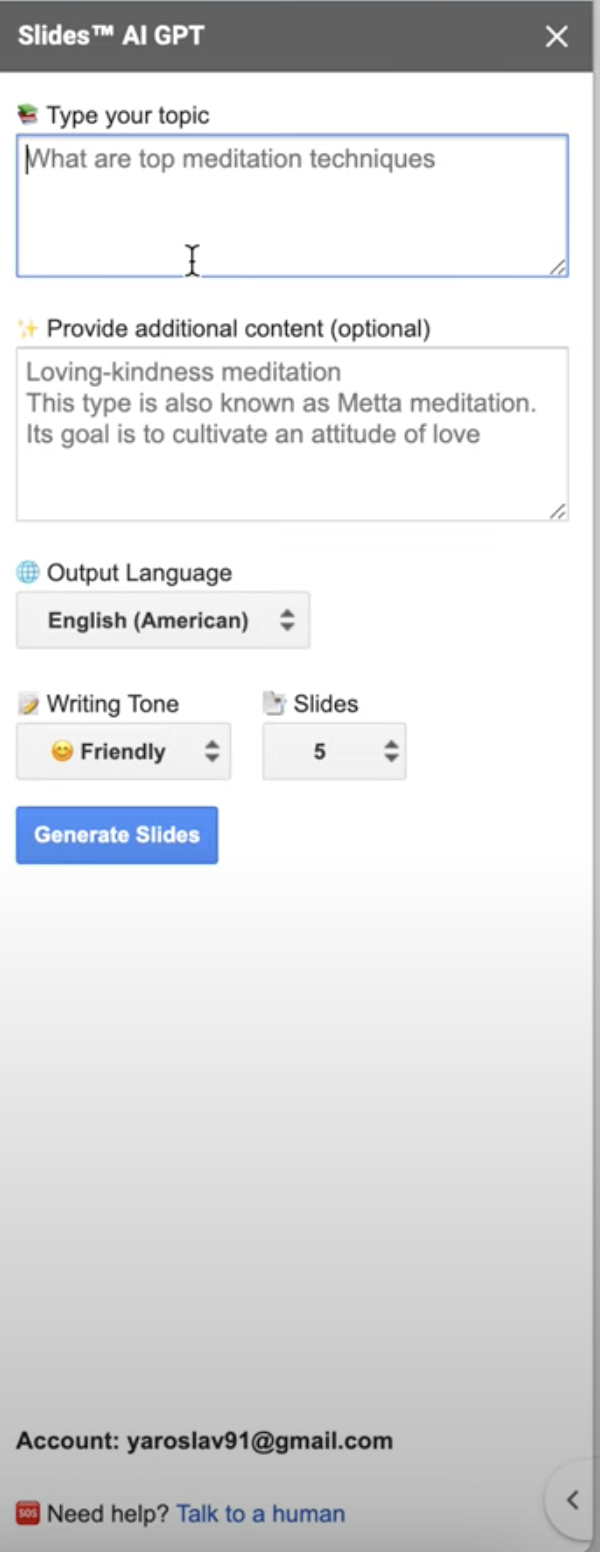
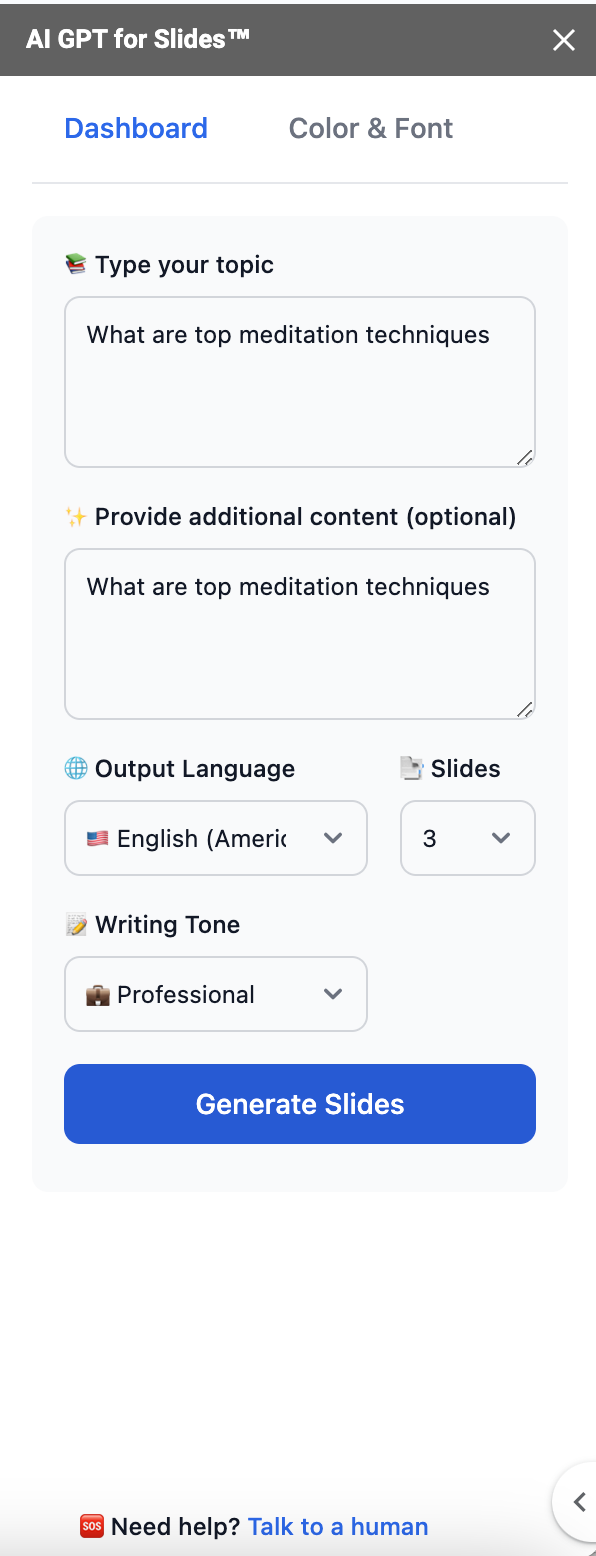
update policy

diff --git a/privacy_gpt_slides.md b/privacy_gpt_slides.md
@@ -1,5 +1,5 @@
 ---
-title: Slides™ AI GPT: Privacy Policy
+title: AI GPT for Slides™: Privacy Policy
 description: 
 permalink: /privacy_gpt_slides/
 ---
@@ -23,11 +23,25 @@ Your email address will be used to activate your license.
 
 **We do not share, track or sell your personal and business information to third parties.**
 
+
+**Notice**
+
+1. We do not store your data(inputs or drive files).It stays on Google’s servers. Granting us access to your data does not allow us to access your data offline. We only use this access to display them on the Add-on and make actions on your behalf such as adding or updating a task. All the actions performed come from you.
+2. We do not share your data with any third party.
+
+Information we collect and how we use it
+We offer a number of services that do not require you to register for an account or provide any personal information to us, such as the company Search. In order to provide our full range of services, we may collect the following types of information:
+
+When you sign up for an account or other service or promotion that requires registration, we ask you for personal information (such as your name, email address)
+The Application’s use and transfer of information received from Google APIs to any other app will adhere to [Google API Services User Data Policy](https://developers.google.com/terms/api-services-user-data-policy#additional_requirements_for_specific_api_scopes), including the Limited Use requirements.
+
+
+
 **HOW DO WE KEEP YOUR INFORMATION SAFE?**
 
 In Short: We aim to protect your personal information through a system of organizational and technical security measures.
 
-We have implemented appropriate technical and organizational security measures designed to protect the security of any personal information we process. However, despite our safeguards and efforts to secure your information, no electronic transmission over the Internet or information storage technology can be guaranteed to be 100% secure. Slides™ AI GPT uses and transfers to any other app of information received from Google API’s will to [Google API Services User Data Policy](https://developers.google.com/terms/api-services-user-data-policy#additional_requirements_for_specific_api_scopes), including the Limited Use requirements.
+We have implemented appropriate technical and organizational security measures designed to protect the security of any personal information we process. However, despite our safeguards and efforts to secure your information, no electronic transmission over the Internet or information storage technology can be guaranteed to be 100% secure. AI GPT for Slides™ uses and transfers to any other app of information received from Google API’s will to [Google API Services User Data Policy](https://developers.google.com/terms/api-services-user-data-policy#additional_requirements_for_specific_api_scopes), including the Limited Use requirements.
 
 
 We do not store your data (inputs, clicks, or drive files). It stays on Google’s servers. Granting us access to your data does not allow us to access it offline. This access is only used for displaying your information on the app and for taking actions on your behalf. All the actions performed come from you.
@@ -38,13 +52,13 @@ The only information we store from your Google account is email.
 
 We share data from fields "Type your topic", "Provide additional content (optional)", "Output language", "Writing tone", "Slides" with AI models provider OpenAI (https://openai.com/)
 
-The Slides™ AI GPT use and transfer of information received from Google APIs adheres to [Google API Services User Data Policy](https://developers.google.com/terms/api-services-user-data-policy#additional_requirements_for_specific_api_scopes), including the Limited Use requirements.
+The AI GPT for Slides™ use and transfer of information received from Google APIs adheres to [Google API Services User Data Policy](https://developers.google.com/terms/api-services-user-data-policy#additional_requirements_for_specific_api_scopes), including the Limited Use requirements.
 
 This Privacy Policy describes Our policies and procedures on the collection, use and disclosure of Your information when You use the Service and tells You about Your privacy rights and how the law protects You.
 
-### Which permissions are needed for "Slides™ AI GPT"?
+### Which permissions are needed for "AI GPT for Slides™"?
 
-When you use "Slides™ AI GPT" for the first time, you’ll be asked to accept the minimum-required permissions:
+When you use "AI GPT for Slides™" for the first time, you’ll be asked to accept the minimum-required permissions:
 
 
 | Required permission                                                                        | Explanation of usage                                                                                 |
@@ -58,11 +72,11 @@ The requests provided in text boxes for generating will be used in AI model prov
 
 The requests provided in text boxes: "Type your topic", "Provide additional content (optional)", "Output Language", "Slides"  for requesting data at openai.com.
 
-### Why does "Slides™ AI GPT" need those permissions?
+### Why does "AI GPT for Slides™" need those permissions?
 
-"Slides™ AI GPT" is integrated with G Suite apps like Sheets. It requires access to the Google environment to provide services seamlessly across the G Suite apps. "Slides™ AI GPT" only requests the minimum-required permissions that are essential for it to function optimally.
+"AI GPT for Slides™" is integrated with G Suite apps like Sheets. It requires access to the Google environment to provide services seamlessly across the G Suite apps. "AI GPT for Slides™" only requests the minimum-required permissions that are essential for it to function optimally.
 
-"Slides™ AI GPT" does not have access to your Google account or your password, only to your email  info.
+"AI GPT for Slides™" does not have access to your Google account or your password, only to your email  info.
 
 ### Still have questions?
 
